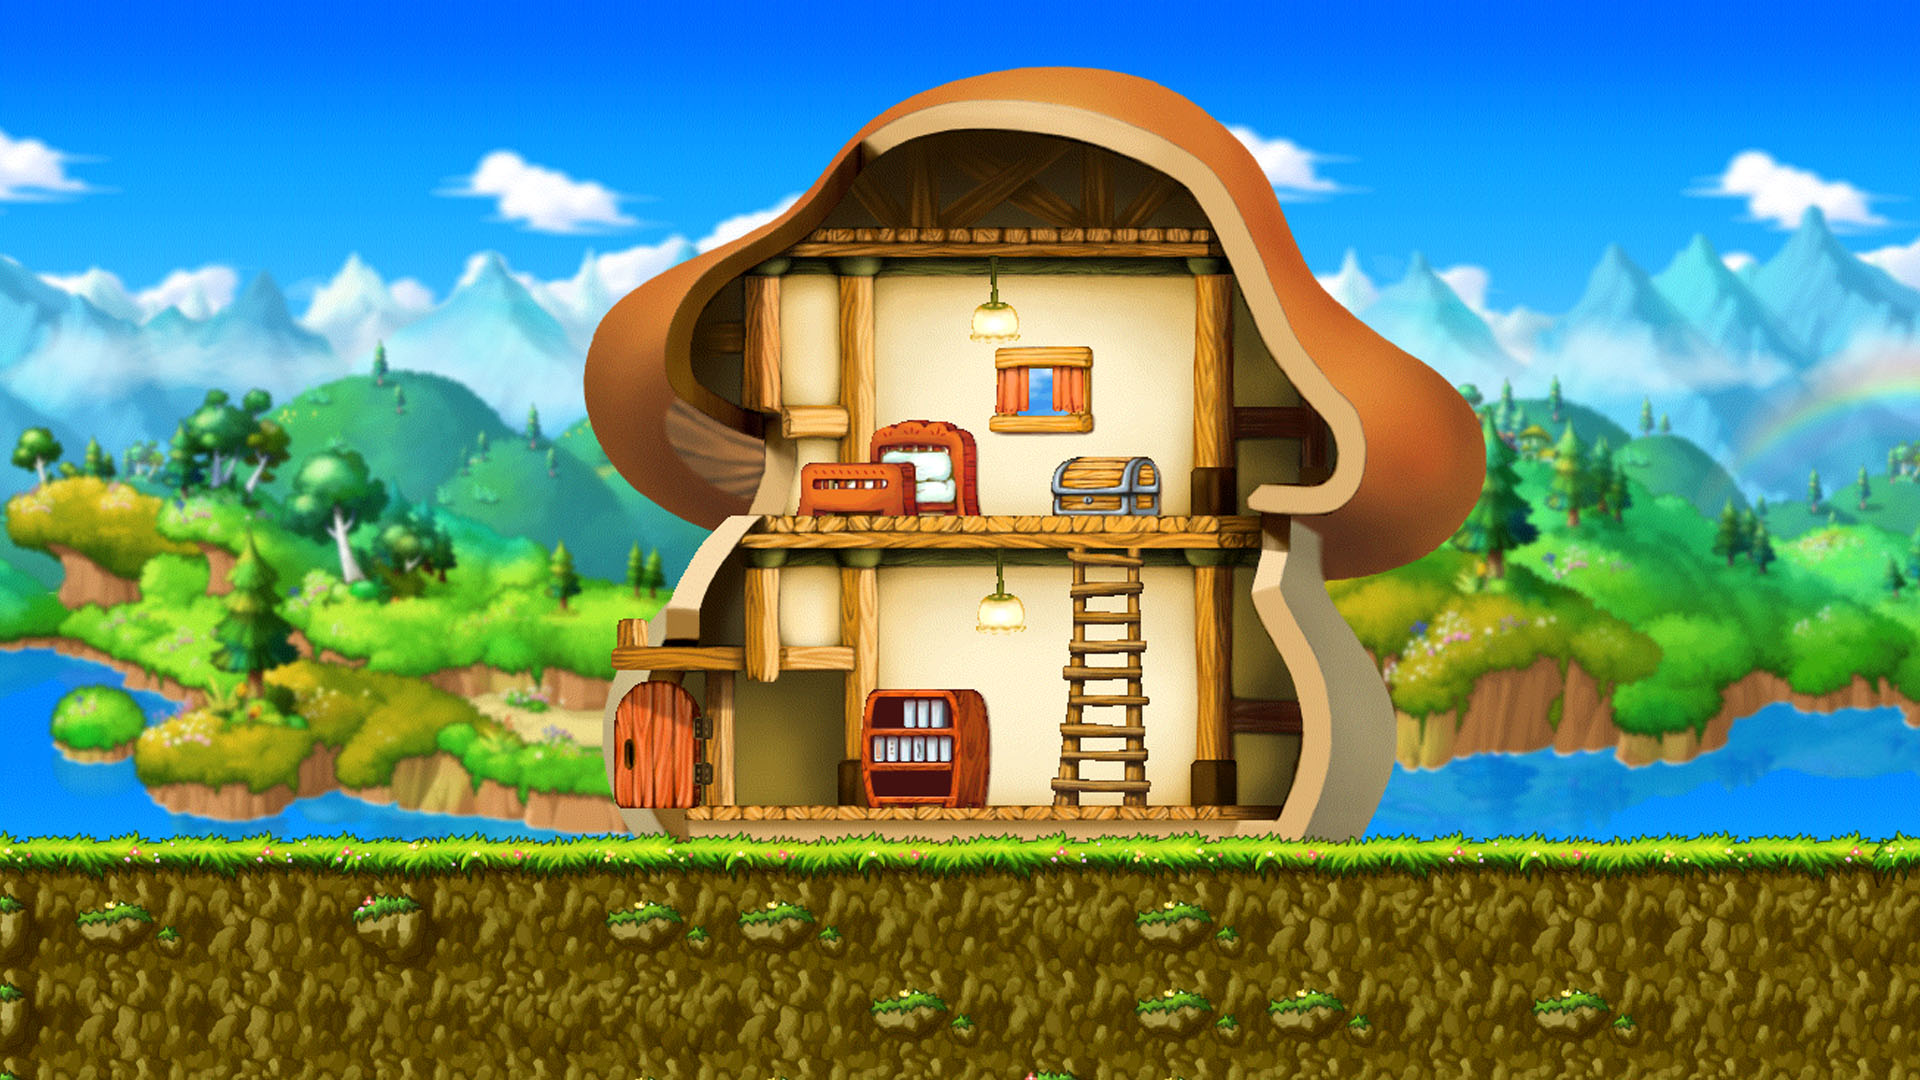
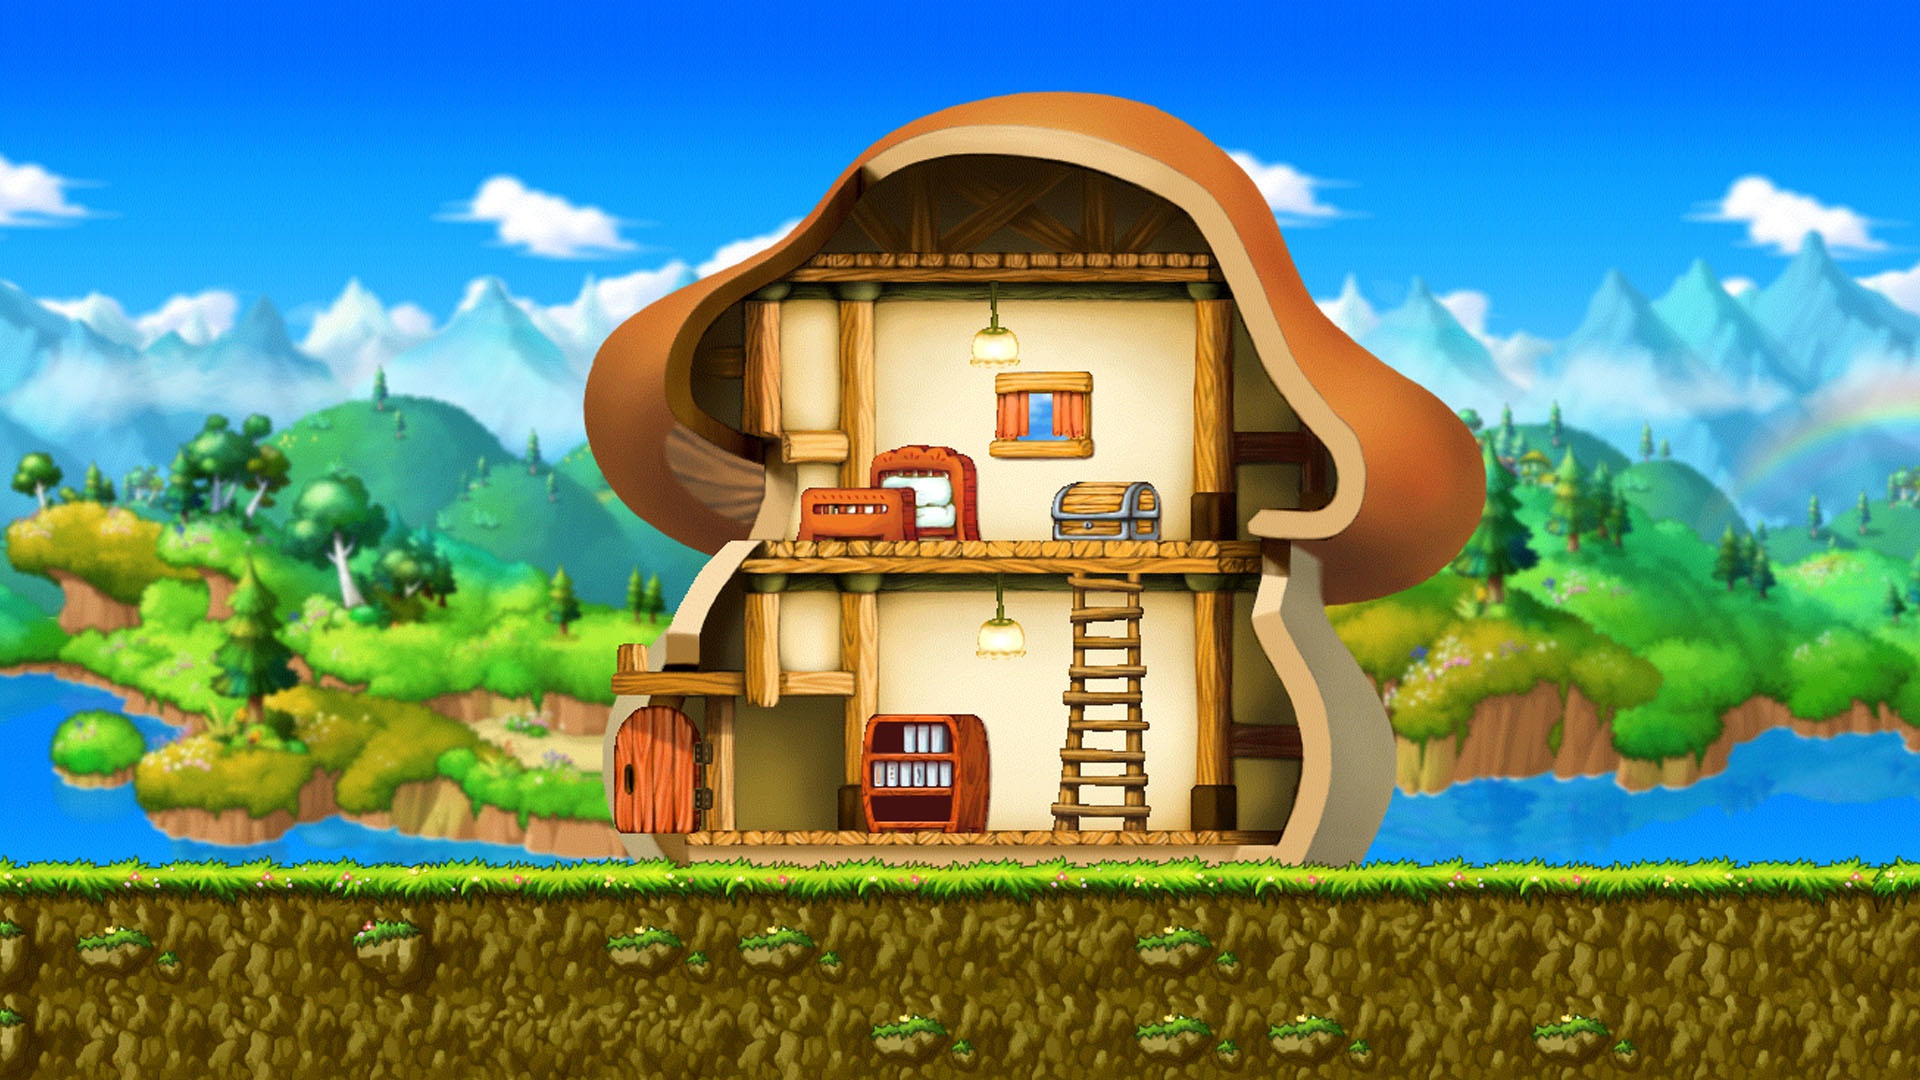
Ajustado o posicionamento do monstro em relação ao background

diff --git a/style.css b/style.css
@@ -2,15 +2,15 @@ body {
   margin: 0 auto;
   font-family: 'Inter';
   max-width: 1920px;
+  
 }
 
-.bg {
+.game {
   margin: 0 auto;
-  background: url('img/mapa/stage1.jpg') no-repeat;
-  background-attachment: scroll;
+  background: url('img/mapa/stage1.jpg') bottom no-repeat;
   display: grid;
   grid-template-rows: 1fr 50px;
-  gap: 20px;
+  gap: 108px;
   height: 100vh;
 }
 
@@ -18,6 +18,7 @@ h1, h2, h3, p, ul, li {
   margin: 0px;
   padding: 0px;
 }
+
 
 li {
   list-style: none;
@@ -50,7 +51,7 @@ img {
 
 .monstro {
   display: grid;
-  grid-template-rows: minmax(auto, 495px) auto auto;
+  grid-template-rows: 300px auto auto;
   justify-items: center;
   align-self: end;
 }

diff --git a/index.html b/index.html
@@ -8,7 +8,7 @@
 
 </head>
 <body>
-  <section class="bg">
+  <section class="game">
 
     <!-- TELA GAME -->
     <div class="display js-display">
@@ -18,6 +18,7 @@
         <img class="imgMonstro js-imgMonstro" src="" alt="">
         <span class="hpMonstro js-hpMonstro"></span>
         <span class="nomeMonstro js-nomeMonstro"></span>
+        
     </div>
     
       <img class="display-seta js-display-seta-direita" src="img/buttons/seta_direita_lock.png" width="32px" alt="" onclick="">

diff --git a/script.js b/script.js
@@ -1,5 +1,5 @@
 // Level
-let level = 1;
+let level = 100;
 let xpProximoLevel = 10;
 let exibirLevel = document.querySelector('.js-level span');
 exibirLevel.innerHTML = level;
